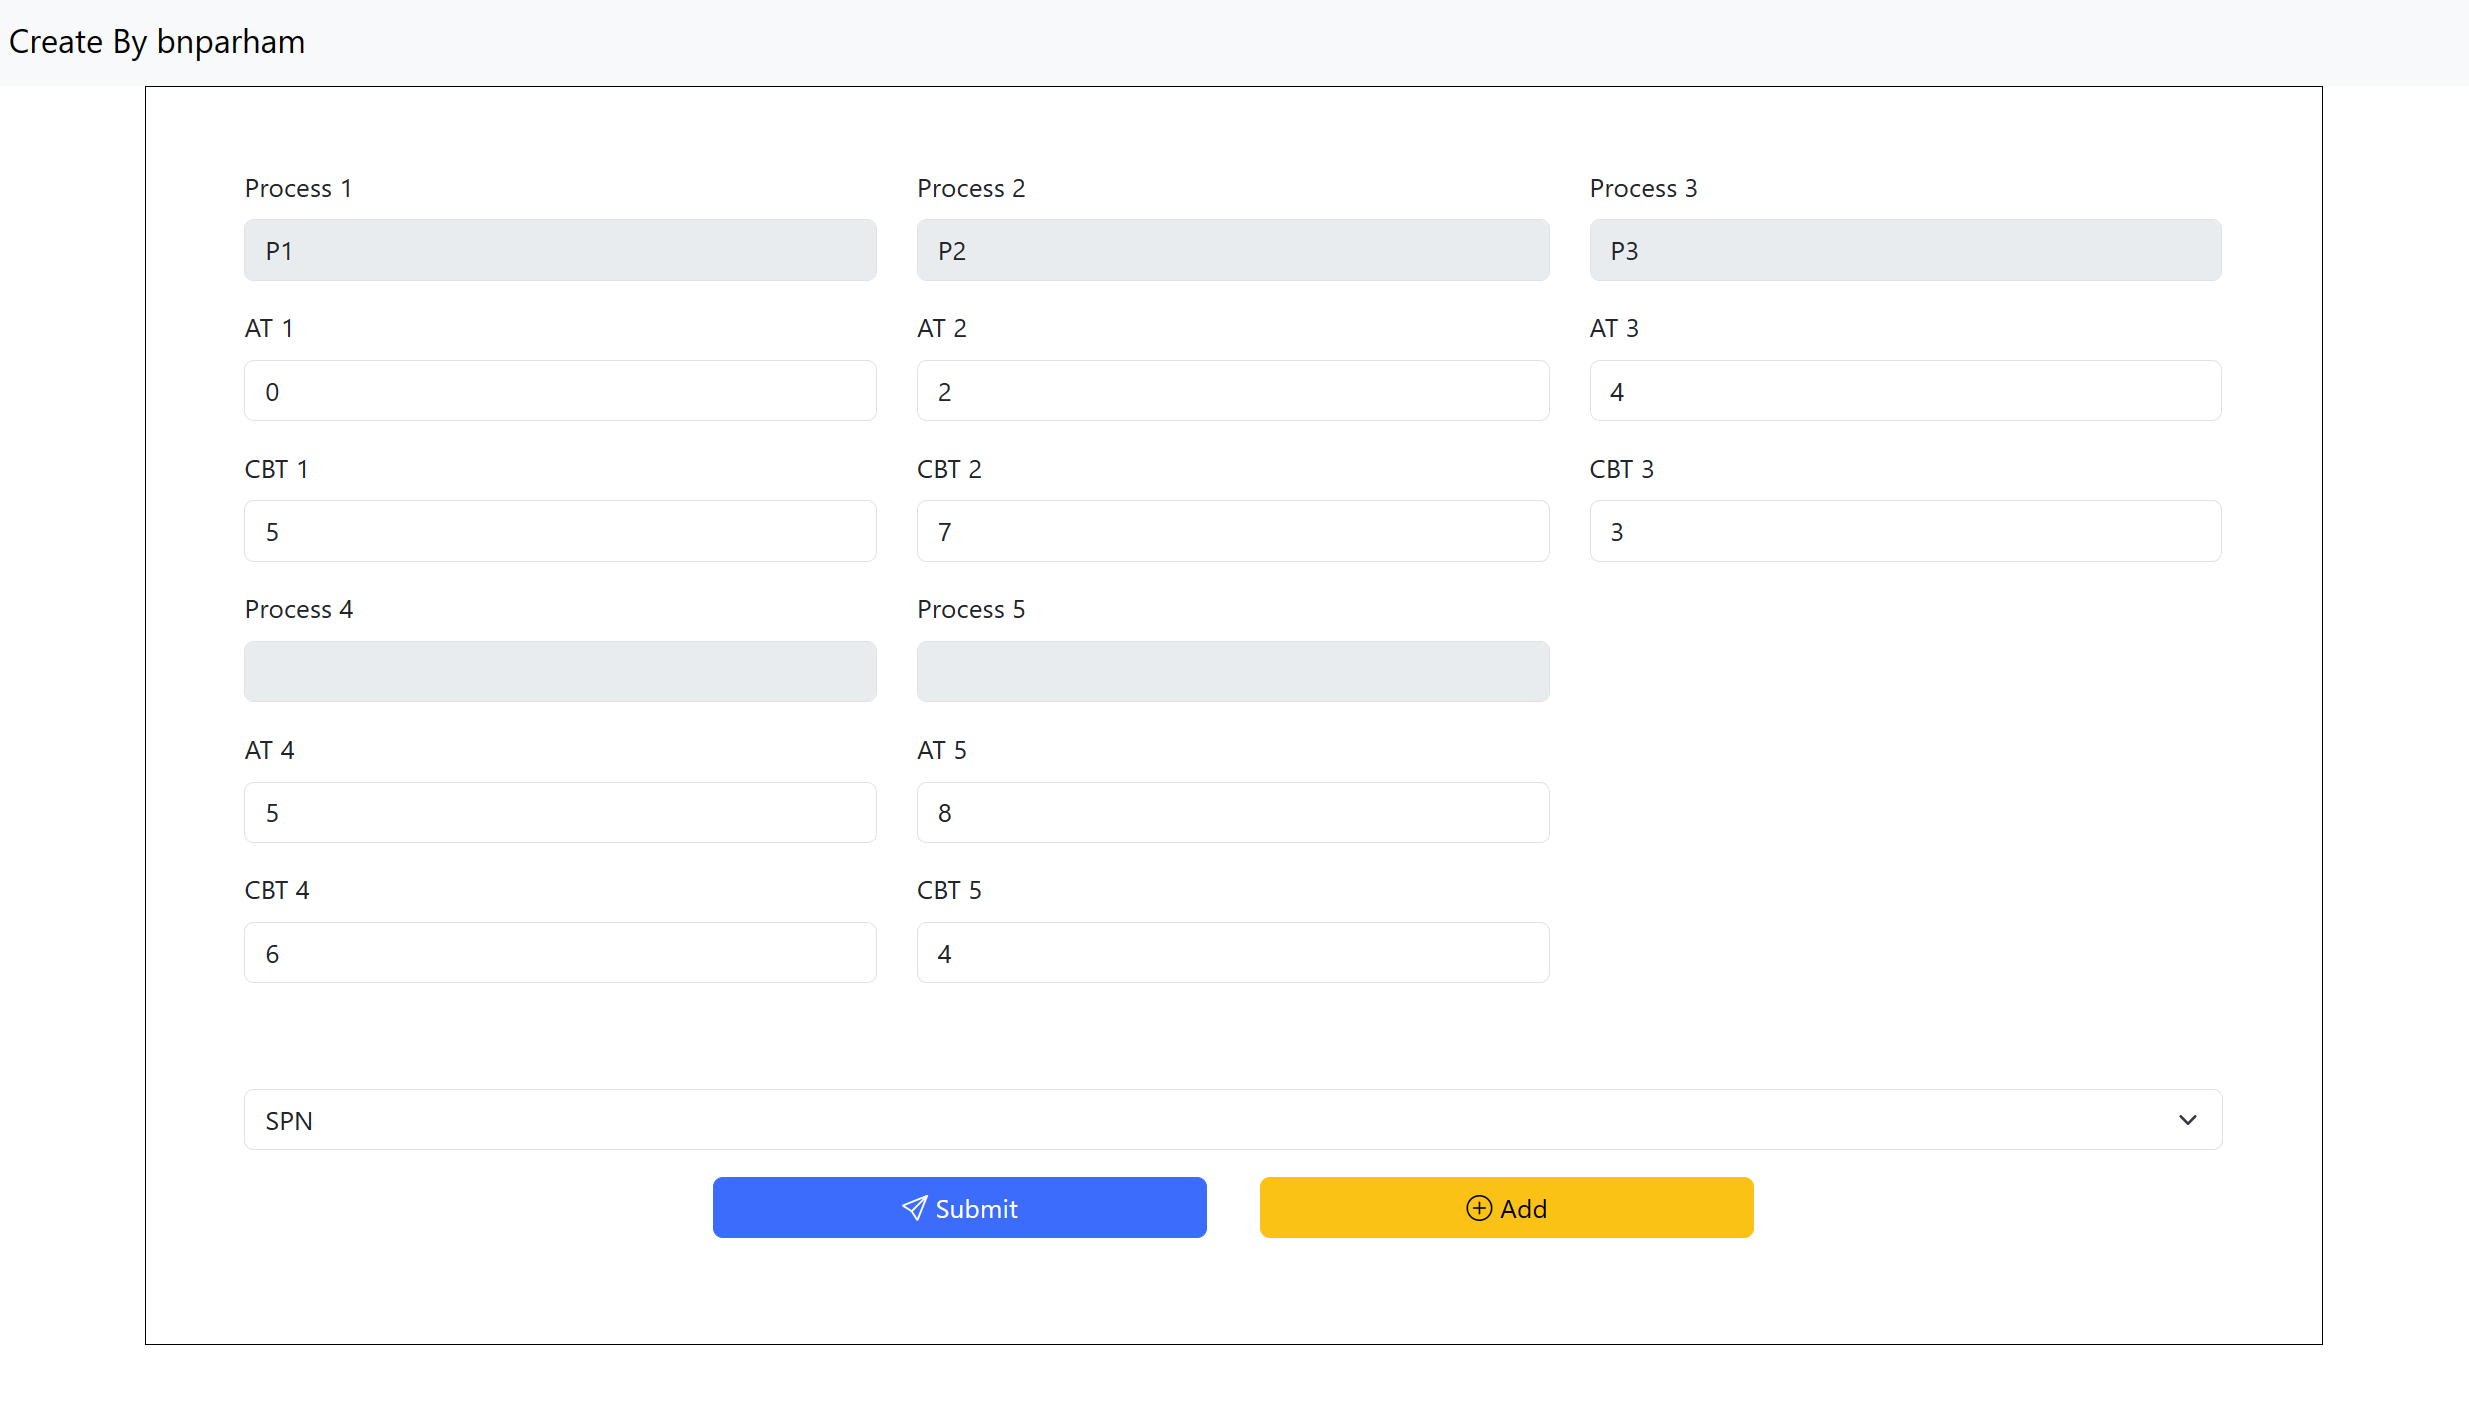
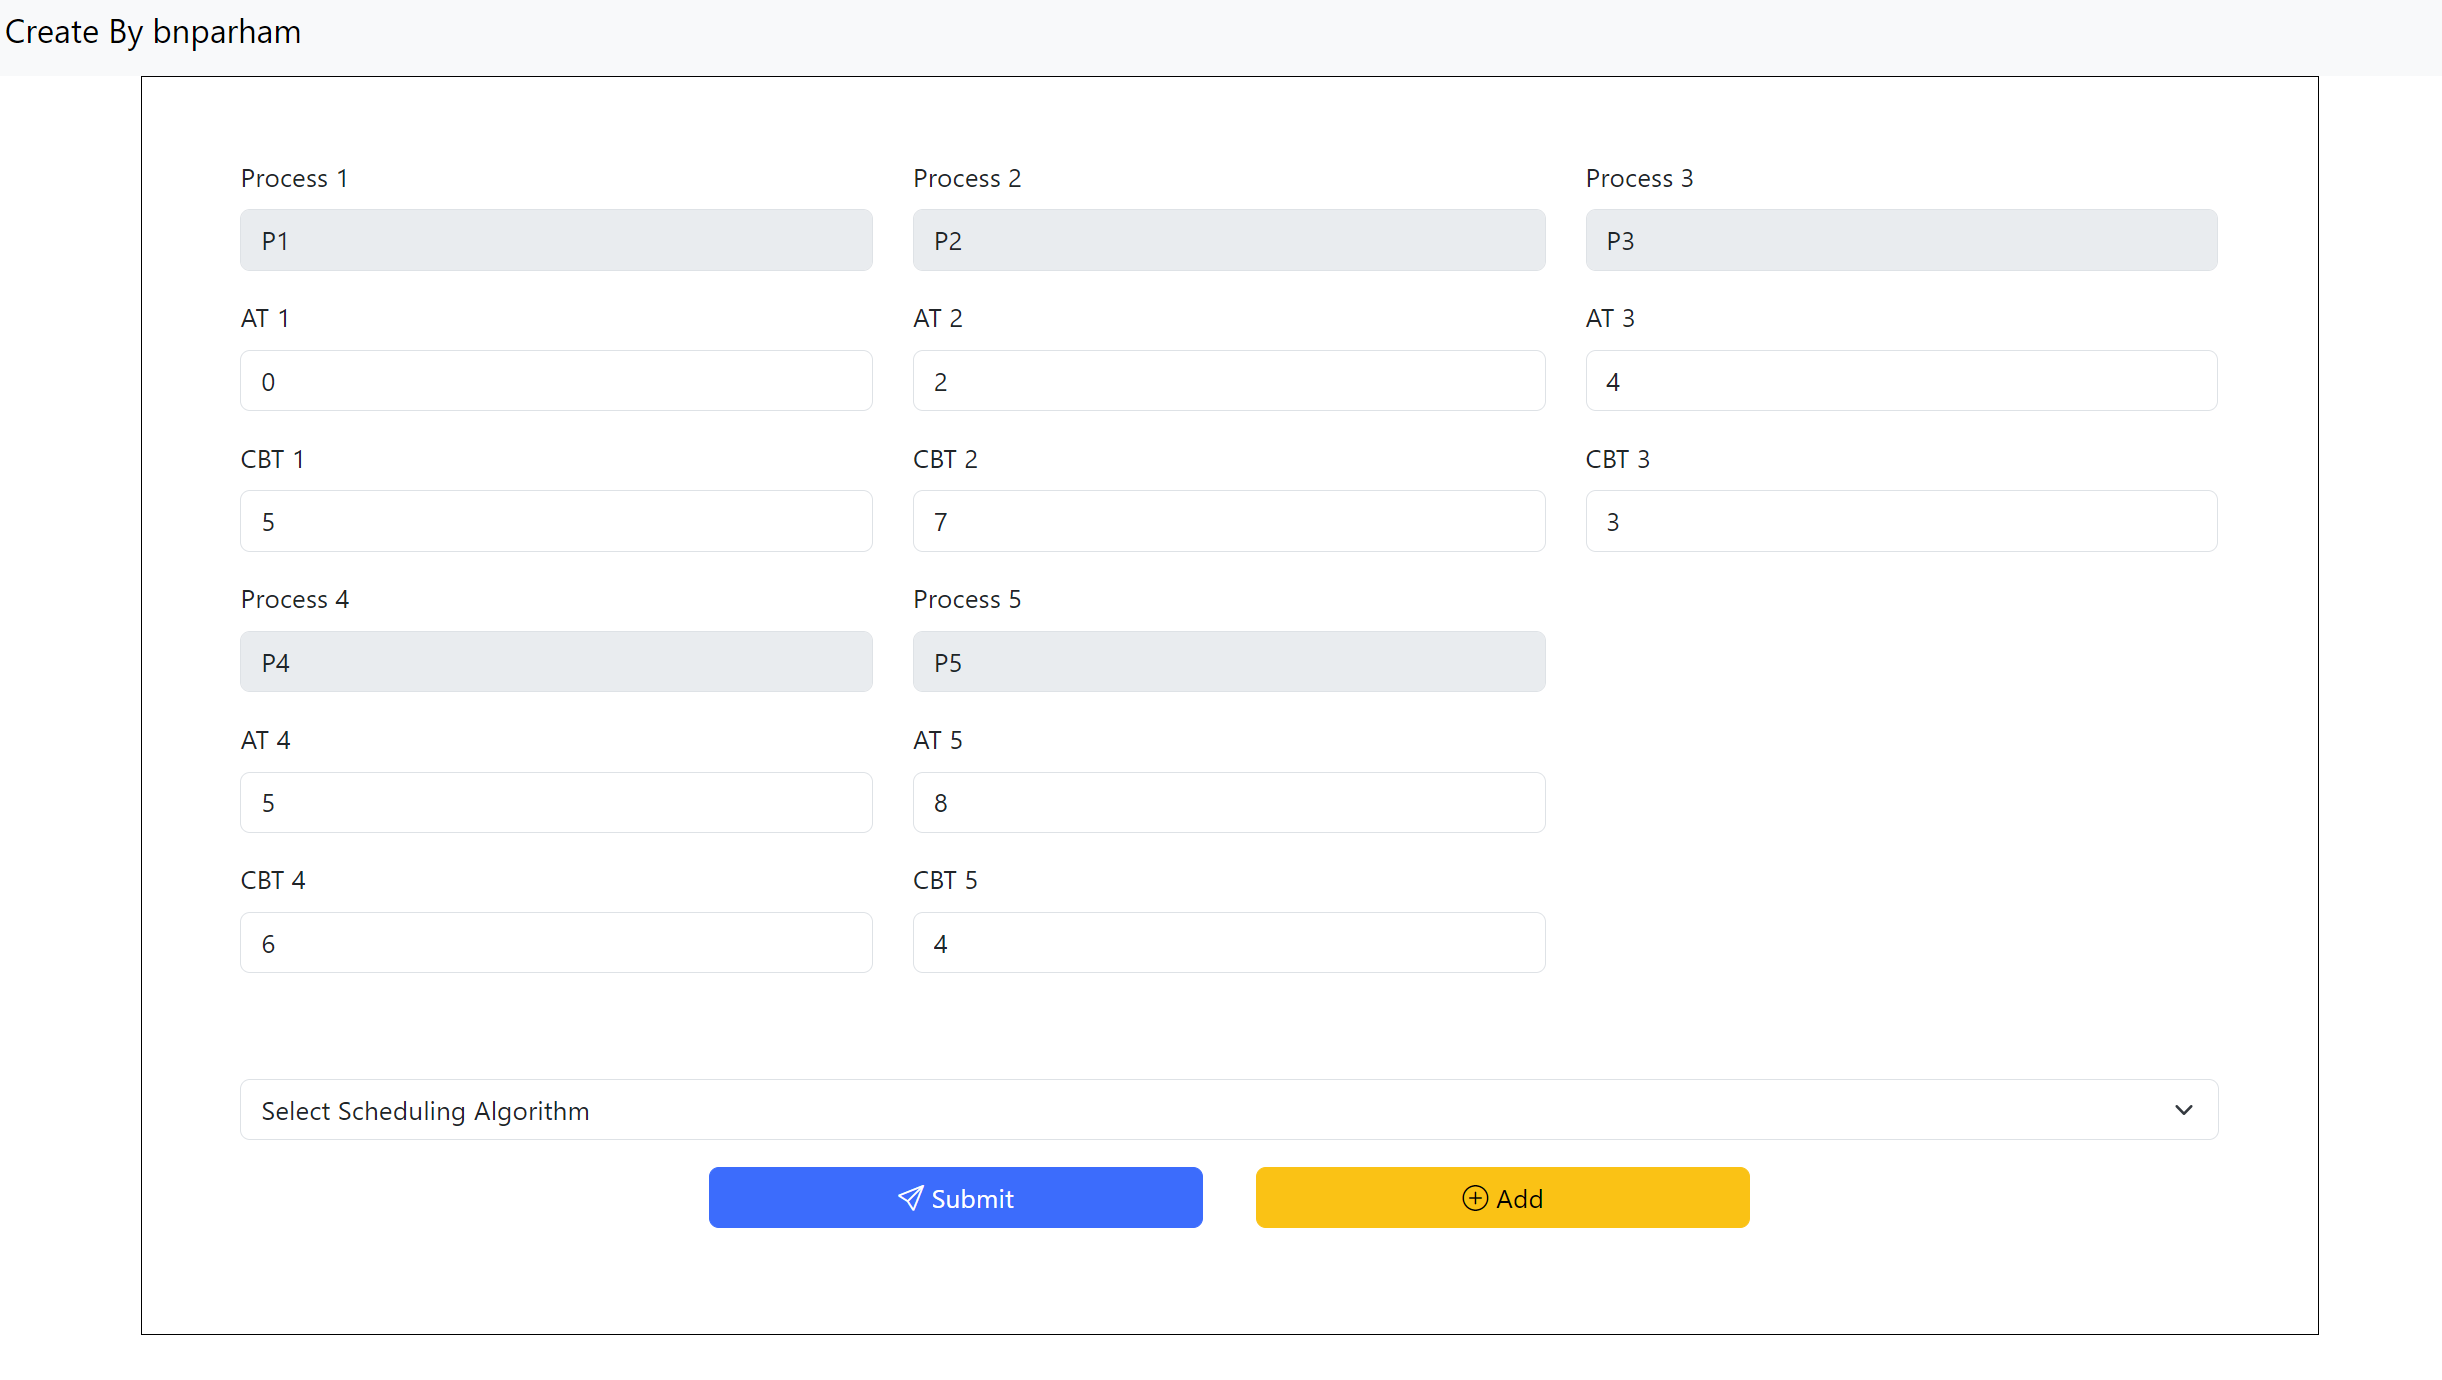
add input value to addProcess Script.js, update web snapshot image

diff --git a/static/js/scripts.js b/static/js/scripts.js
@@ -11,7 +11,7 @@ const addProcess = (count) => {
         <div class="mb-3">
             <label for="process_${count}" class="form-label">Process ${count}</label>
             <input type="hidden" name="process_${count}" value="P${count}">
-            <input required readonly disabled type="text" class="form-control" id="process_${count}" aria-describedby="emailHelp">
+            <input required readonly disabled value="P${count}" type="text" class="form-control" id="process_${count}" aria-describedby="emailHelp">
         </div>
         <div class="mb-3">
             <label for="at_${count}" class="form-label">AT ${count}</label>
